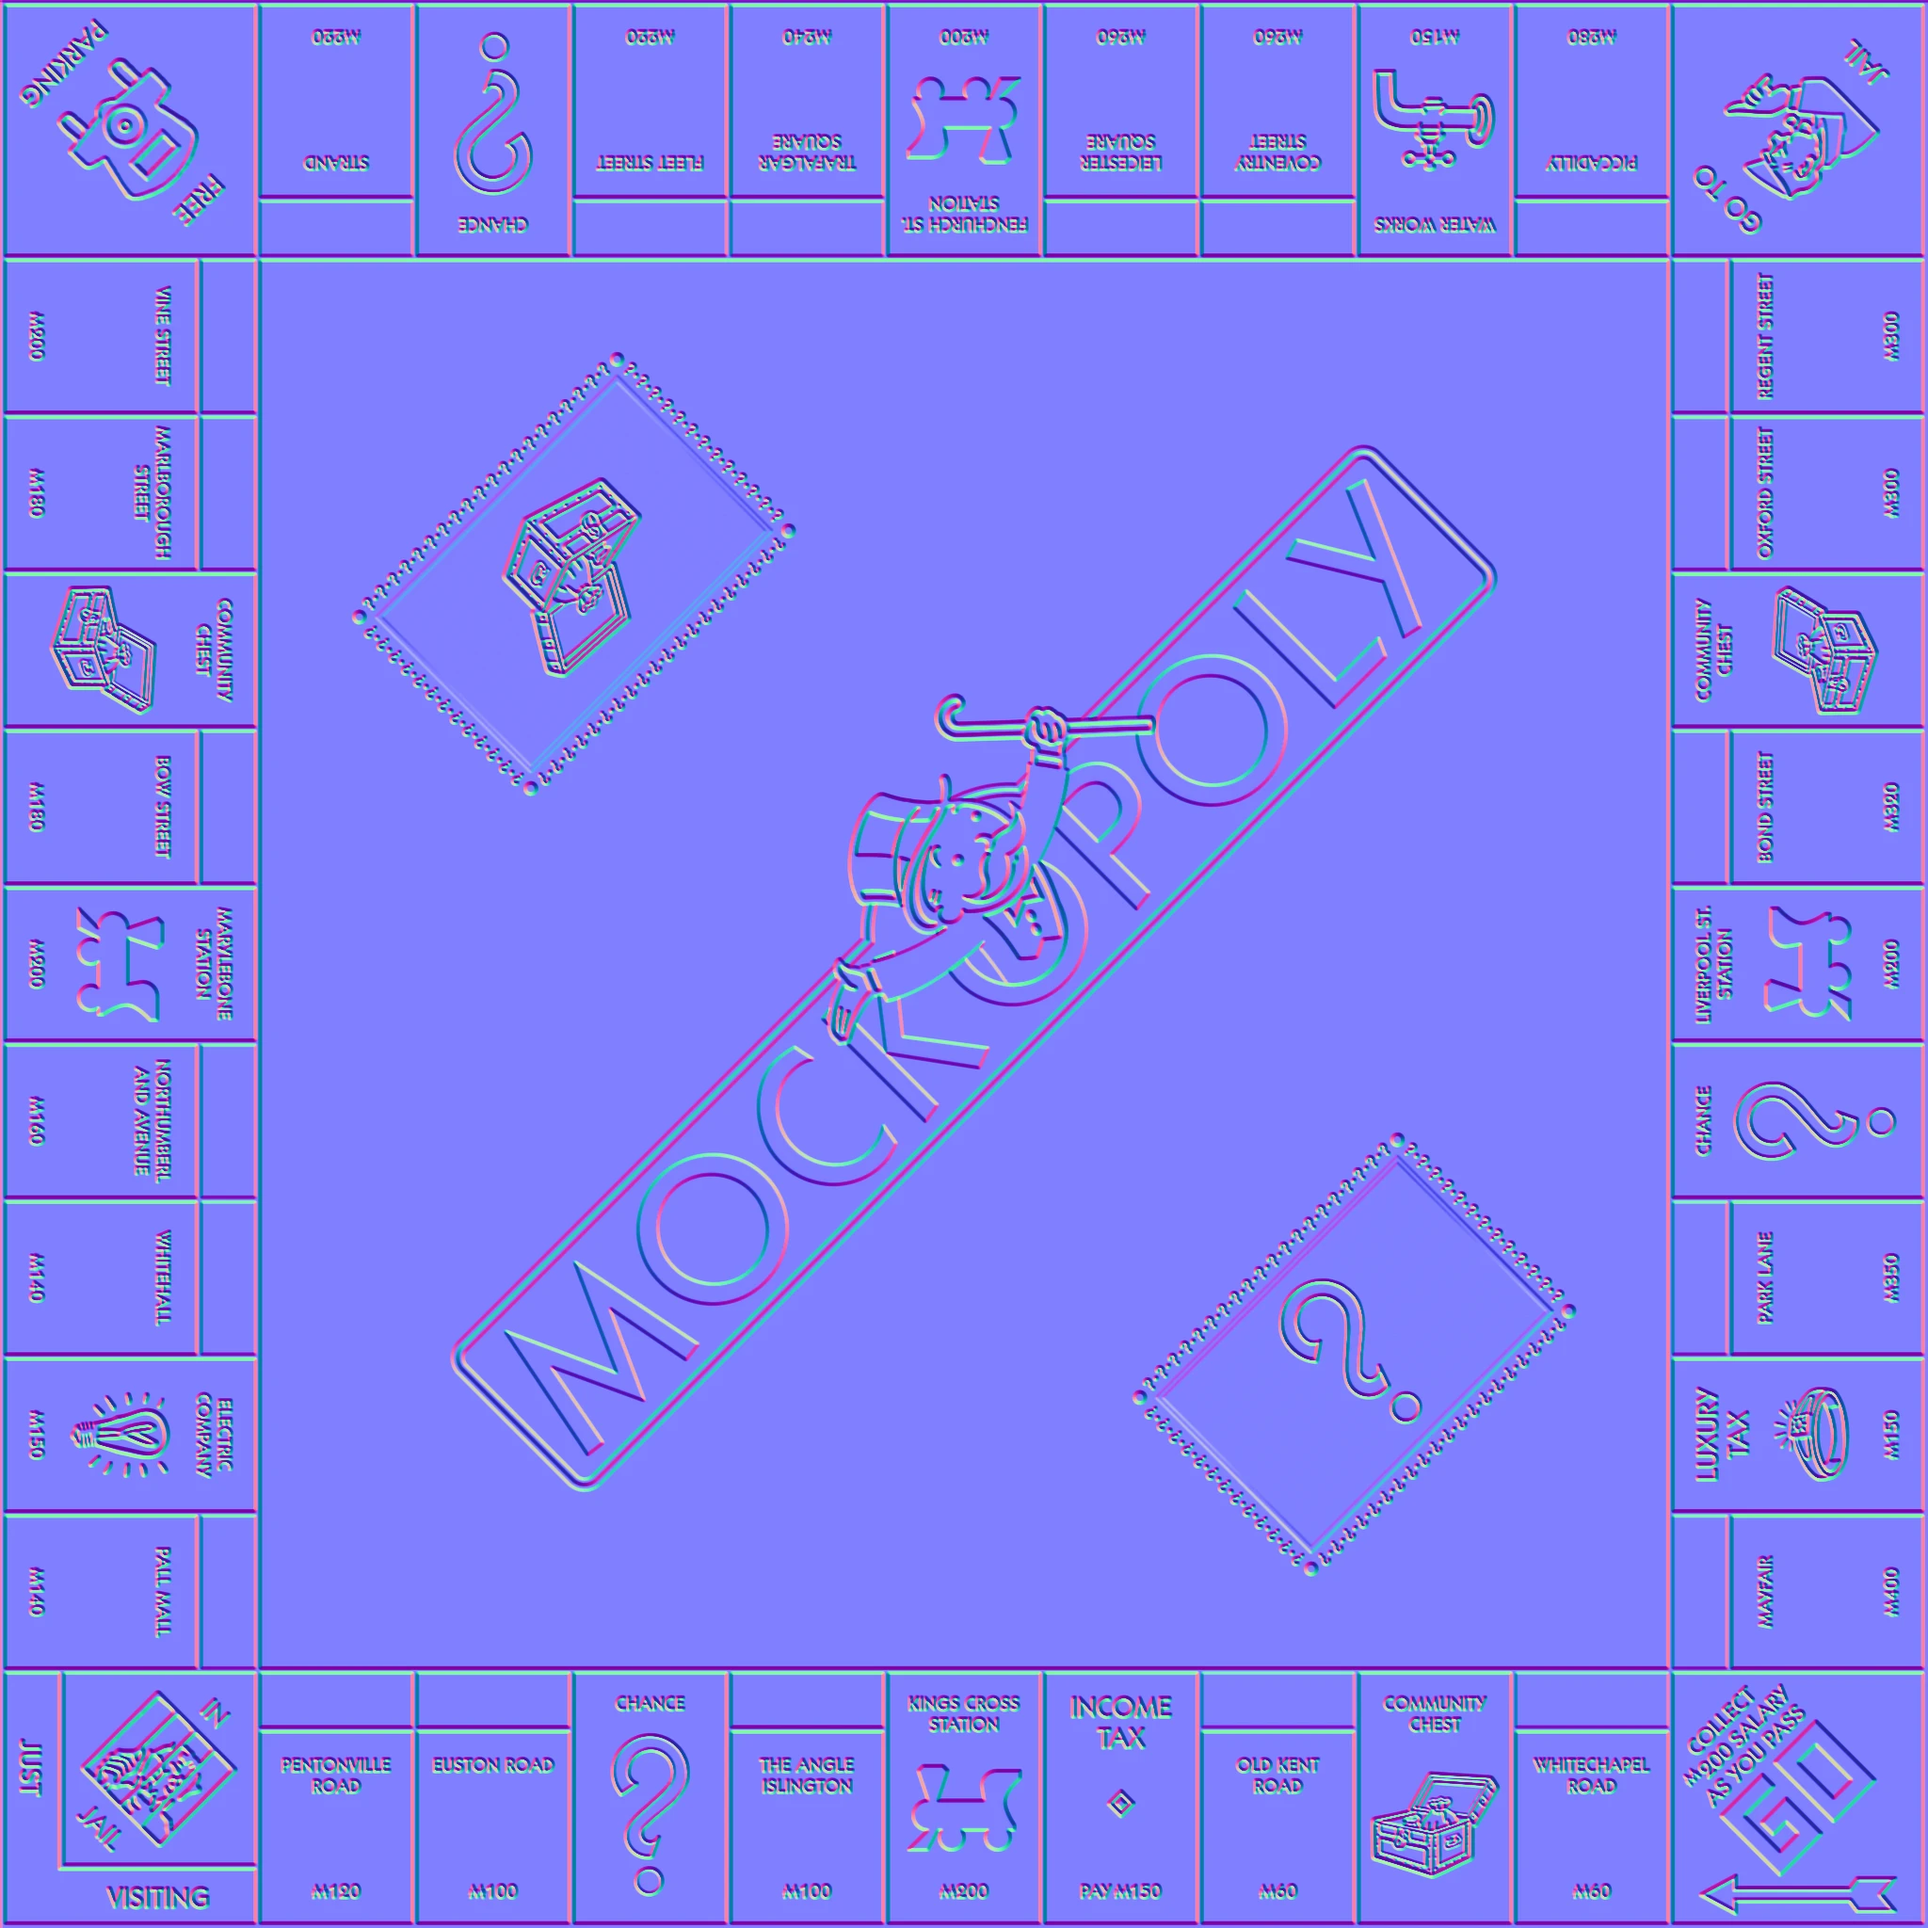
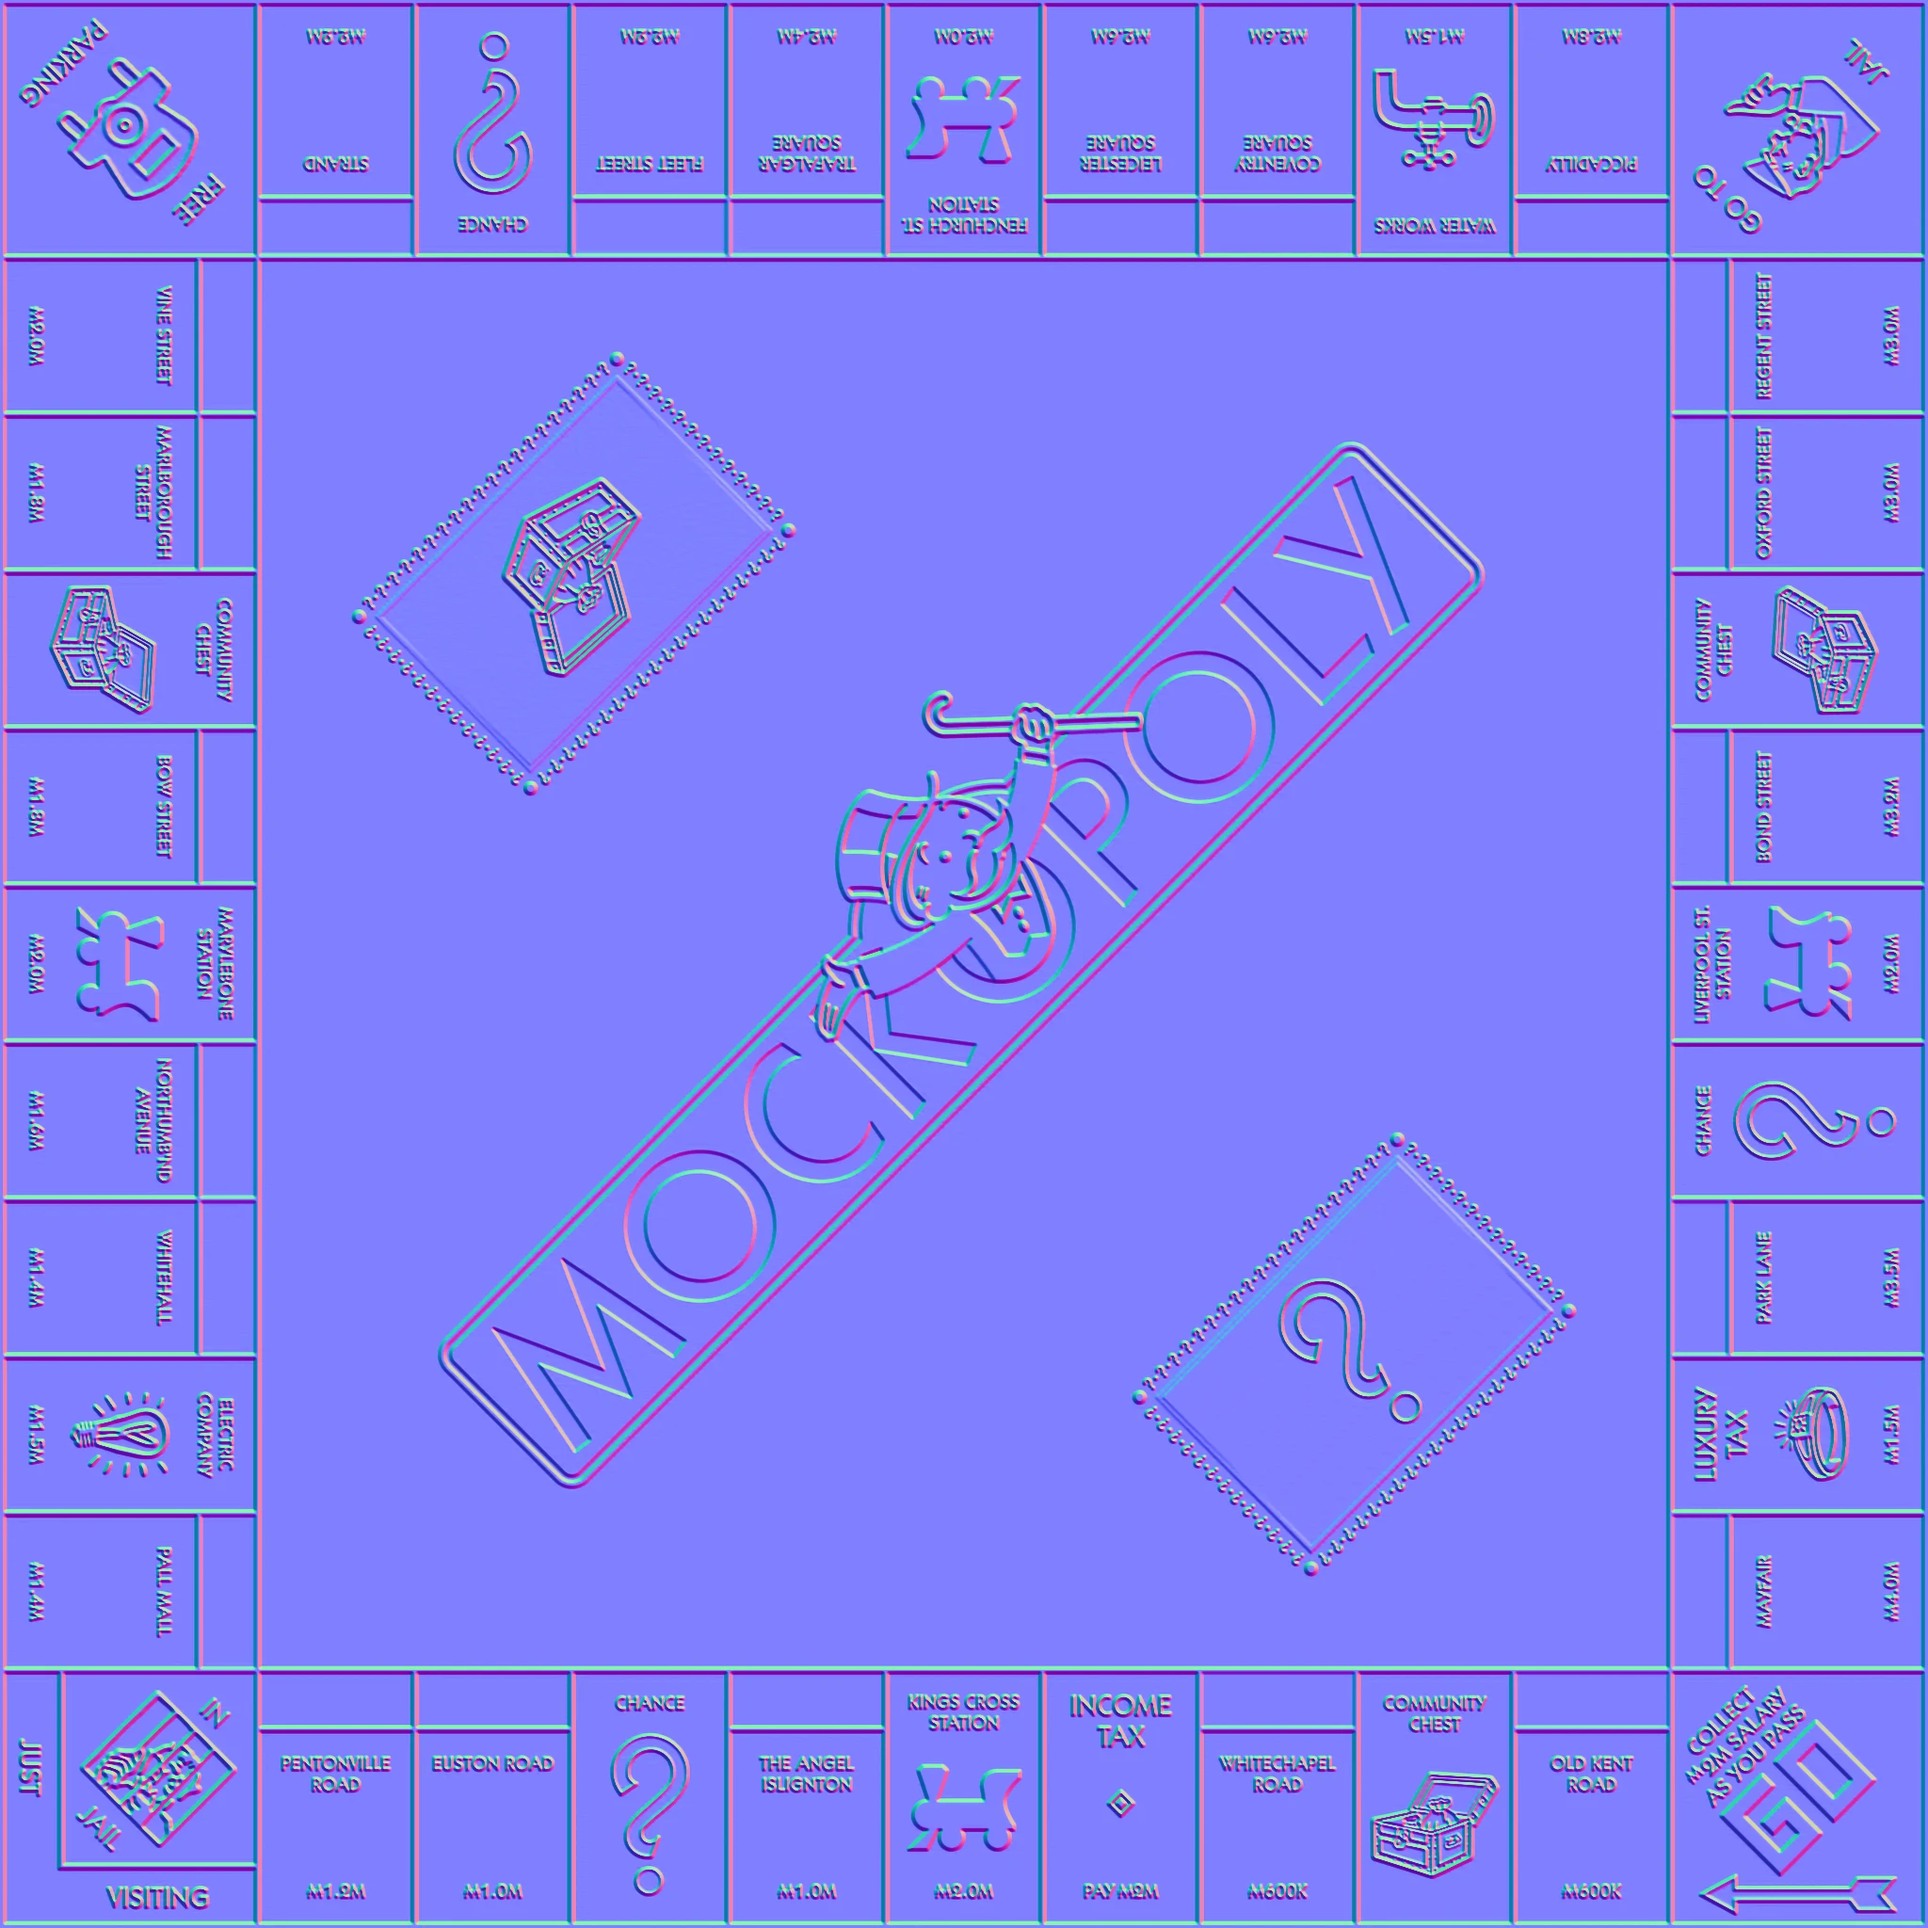
fix(3d): align board normal map to shipped albedo + raise relief
Regenerate board-normal.webp from the exact shipped albedo (public/images/
board.webp) instead of ~/Downloads/Board.png. The Downloads source had
different framing/orientation, so engraved relief landed on the wrong tiles
(Whitechapel relief bled onto Old Kent Road). Same pixel basis => 1:1 UV align.

Invert the height field (dark ink = HIGH, height = 1 - luminance) so grid
lines, text, icons, GO arrow, and price text emboss OUTWARD (raised/pop-out)
instead of sinking in as engraved grooves.

Lock UV alignment in BoardTiles.tsx by COPYING the albedo texture's transform
(flipY, center, rotation, repeat, offset, wrap, matrix) onto the normal texture
so they can never diverge. BOARD_NORMAL_STRENGTH=0.6, BOARD_NORMAL_Y_SIGN=1
yield the raised relief.

diff --git a/src/board/BoardTiles.tsx b/src/board/BoardTiles.tsx
@@ -60,18 +60,21 @@ const BOARD_SATURATION = 1.15;
 
 /**
  * Fake-3D relief for the printed board via a NORMAL MAP (board-normal.webp,
- * baked offline by scripts/gen-board-normal.mjs from the board art). No geometry
- * change — the flat top face gets per-pixel surface normals so grid lines, tile
- * text, icons, the GO arrow, and colour strips catch the scene's directional +
- * point lighting as engraved grooves.
+ * baked offline by scripts/gen-board-normal.mjs FROM the shipped albedo
+ * board.webp — same pixel basis, so the relief aligns 1:1 with the print). No
+ * geometry change — the flat top face gets per-pixel surface normals so grid
+ * lines, tile text, icons, the GO arrow, and price text catch the scene's
+ * directional + point lighting as RAISED ridges POPPING OUT of the board (the
+ * bake uses DARK-INK = HIGH so the print embosses outward, not engraved in).
  *
  * TUNING KNOBS:
  *   BOARD_NORMAL_STRENGTH – overall relief depth (normalScale). ~0.2 subtle,
  *                           ~1.5 heavy. 0.6 = a tasteful embossed print.
- *   BOARD_NORMAL_Y_SIGN   – flip if the relief looks INVERTED (grooves bulge
- *                           OUT instead of sinking IN, or vice-versa). The baked
- *                           map is OpenGL green-up; some lighting reads better
- *                           with the green channel inverted. Flip 1 -> -1.
+ *   BOARD_NORMAL_Y_SIGN   – flip if the relief reads INVERTED under lighting
+ *                           (print sinks IN instead of popping OUT). The bake
+ *                           already inverts the height (dark ink = raised) and
+ *                           is OpenGL green-up, so +1 gives the raised look; if
+ *                           lighting ever reads it sunk-in, flip 1 -> -1.
  *
  * The relief only shows under lighting + non-mirror roughness. The top material
  * keeps roughness 0.7 (matte paper) which reveals the grooves well; if the
@@ -86,6 +89,7 @@ export function BoardTiles() {
   const maxAniso = useThree((s) => s.gl.capabilities.getMaxAnisotropy());
 
   useMemo(() => {
+    // ── ALBEDO — the single source of truth for the board's UV transform ──────
     texture.colorSpace = THREE.SRGBColorSpace;
     texture.anisotropy = maxAniso;
     texture.flipY = TEX_FLIP_Y;
@@ -97,22 +101,36 @@ export function BoardTiles() {
     // be flipped to `true` without further edits, even though it is false today.
     // eslint-disable-next-line @typescript-eslint/no-unnecessary-condition -- TEX_FLIP_X is a documented tuning constant meant to be toggled; the branch is intentional
     texture.repeat.set(TEX_FLIP_X ? -1 : 1, 1);
+    texture.offset.set(0, 0);
     texture.wrapS = THREE.ClampToEdgeWrapping;
     texture.wrapT = THREE.ClampToEdgeWrapping;
     texture.needsUpdate = true;
 
-    // Normal map: LINEAR data (NOT colour) and MUST share the albedo's exact UV
-    // transform so the relief lands pixel-for-pixel on the print. Mirror every
-    // sampling parameter the albedo uses above.
+    // ── NORMAL — COPY the albedo's exact UV transform (never re-derive it) ─────
+    // The relief must land pixel-for-pixel on the print, so instead of restating
+    // flipY/center/rotation/repeat/offset/wrap for the normal map (which could
+    // silently drift from the albedo), we COPY every UV-sampling parameter off
+    // the just-configured albedo texture. Anything that tweaks the albedo's
+    // framing (TEX_FLIP_X/Y, TEX_ROTATION) now propagates to the normal map
+    // automatically — they can't diverge. Only the colour/mip/filter properties
+    // (which are texture-kind-specific, not UV placement) are set independently:
+    // the normal map is LINEAR data, not colour.
+    normalTex.flipY = texture.flipY;
+    normalTex.center.copy(texture.center);
+    normalTex.rotation = texture.rotation;
+    normalTex.repeat.copy(texture.repeat);
+    normalTex.offset.copy(texture.offset);
+    normalTex.wrapS = texture.wrapS;
+    normalTex.wrapT = texture.wrapT;
+    // Keep the matrix in lock-step too (belt-and-braces if matrixAutoUpdate is
+    // ever disabled upstream): recompute both from the copied params.
+    texture.updateMatrix();
+    normalTex.matrixAutoUpdate = texture.matrixAutoUpdate;
+    normalTex.matrix.copy(texture.matrix);
+
+    // Texture-kind-specific (NOT UV placement): normal map stays LINEAR.
     normalTex.colorSpace = THREE.NoColorSpace;
     normalTex.anisotropy = maxAniso;
-    normalTex.flipY = TEX_FLIP_Y;
-    normalTex.center.set(0.5, 0.5);
-    normalTex.rotation = TEX_ROTATION;
-    // eslint-disable-next-line @typescript-eslint/no-unnecessary-condition -- mirrors the albedo's TEX_FLIP_X tuning branch so the normal map stays aligned when it is toggled
-    normalTex.repeat.set(TEX_FLIP_X ? -1 : 1, 1);
-    normalTex.wrapS = THREE.ClampToEdgeWrapping;
-    normalTex.wrapT = THREE.ClampToEdgeWrapping;
     normalTex.generateMipmaps = true;
     normalTex.minFilter = THREE.LinearMipmapLinearFilter;
     normalTex.magFilter = THREE.LinearFilter;
